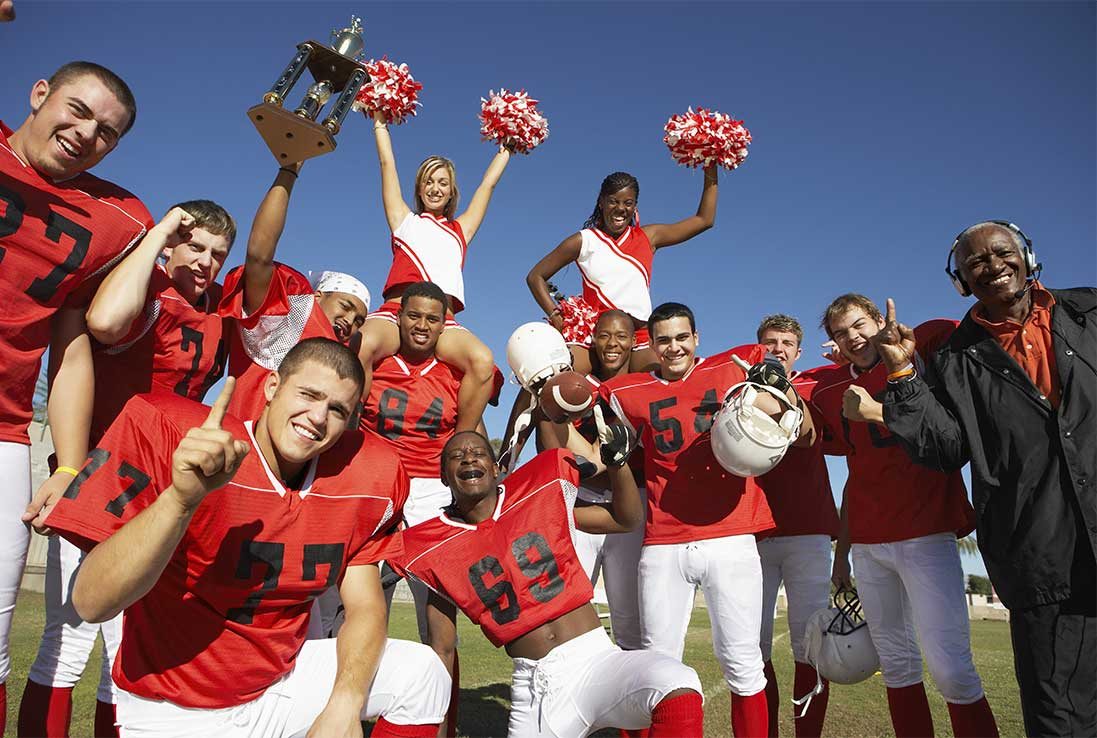
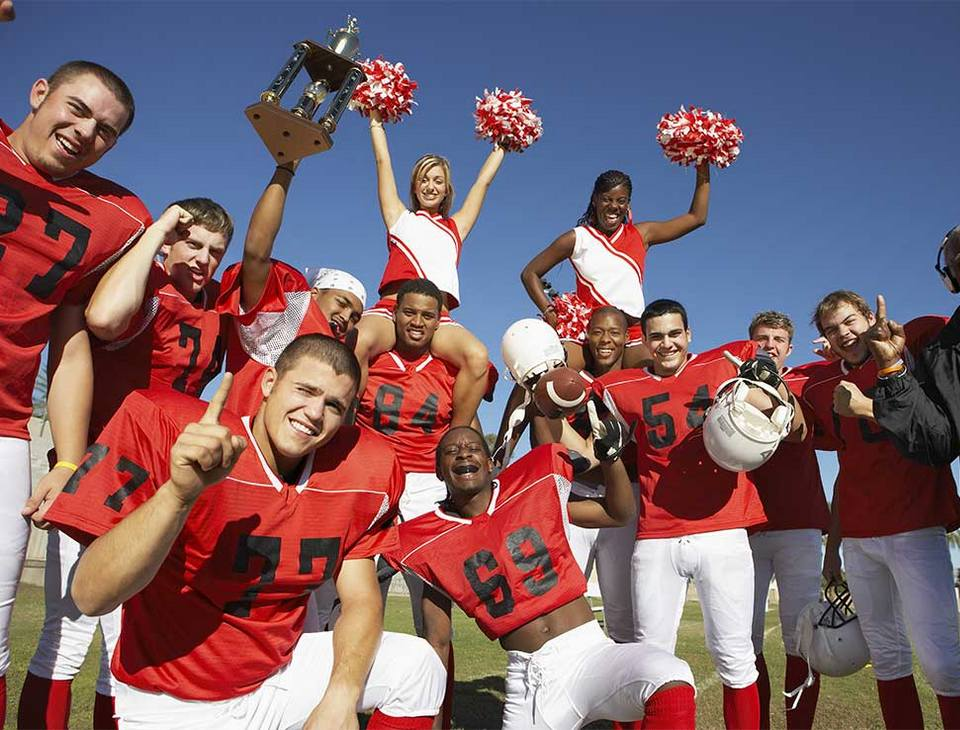
appeal section

diff --git a/css/styles.css b/css/styles.css
@@ -1,3 +1,4 @@
+
 @font-face {
     font-family: 'OpenSans-Regular';
     src: url('./fonts/OpenSans-Regular.woff2') format('woff2'),
@@ -260,12 +261,18 @@ body {
     justify-content: center;
   }
 
-   h2  {
-    font-family: 'OpenSans-Bold', sans-serif;
-    font-size: 80px;
-    text-transform: uppercase;
-    color: #e7e7e7;
-  }
+ @media (min-width: 961px) {
+	 .athlets > h2,
+	 .players > h2 {
+	   font-size: 80px;
+	 }
+}
+
+	h2  {
+ 		font-family: 'OpenSans-Bold', sans-serif;
+ 		text-transform: uppercase;
+ 		color: #e7e7e7;
+	}
 
    h3 {
     position: relative;
@@ -556,14 +563,53 @@ body {
 	margin-right: auto;
   }
 
-  .appeal__info {
-	/* position: relative; */
-  }
-
-  .appeal_image {
+   .appeal_image {
 	max-width: 100%;
+	max-height: 730px;
   }
 
+  .appeal__info {
+	  position: relative;
+	  box-sizing: border-box;
+  }
+
+  .appeal__info_text {
+	font-family: 'OpenSans-Regular', sans-serif;
+	}
+
+	.appeal__number {
+      position: absolute;
+    color: #ffffff;
+      font-family: 'OpenSans-Bold', sans-serif;
+     text-align: center;
+      background-color: #5e42b0;
+    }
+
+	.appeal__number p {
+      position: relative;
+	  margin: 0;
+    }
+
+	.appeal__number p:before {
+      display: block;
+      content: "";
+     position: absolute;
+      border-bottom: 5px solid #8f7bc8;
+        border-radius: 5px;
+    }
+
+	/* ////ШИРИНА ОТ 1920 ///// */
+@media (min-width: 1921px) {
+		.appeal__info_title {
+			font-size: 80px;
+	  	  line-height: 90px;
+		}
+
+		.appeal__info_text {
+			font-size: 24px;
+  	  		line-height: 28px;
+  		}
+}
 		/* ////ШИРИНА ОТ 961 ///// */
 @media (min-width: 961px){
   .appeal__info, .appeal__imgbox {
@@ -571,8 +617,6 @@ body {
     }
 
     .appeal__info {
-		position: relative;
-      	box-sizing: border-box;
 		padding-top: 13.5%;
     }
 
@@ -582,37 +626,25 @@ body {
 	}
 
 	.appeal__info:nth-child(3) {
-		padding-left: 10%;
+		padding-left: 9.5%;
 	}
 
     .appeal__info_title {
-      font-family: 'OpenSans-Bold', sans-serif;
-      font-size: 80px;
+      font-size: calc(50vw * 0.083);
 	  line-height: 90px;
-      color: #e7e7e7;
-      text-transform: uppercase;
-	  margin-top: 0;
-	  margin-bottom: 0;
+       margin-top: 0;
+	  margin-bottom: 11%;
    }
 
     .appeal__info_text {
-      font-family: 'OpenSans-Regular', sans-serif;
-      font-size: 24px;
-	  line-height: 28px;
-      /* padding-right: 40%; */
-    }
+      font-size: calc(50vw * 0.025);
+  }
 
     .appeal__number {
-      position: absolute;
       width: calc(5.4vw + 63px);
       height: calc(4.1vw + 76px);
-      color: #ffffff;
-      font-family: 'OpenSans-Bold', sans-serif;
-      font-size: 24px;
-	  line-height: calc(4.1vw + 76px);
-      text-align: center;
-      background-color: #5e42b0;
-    }
+      line-height: calc(4.1vw + 76px);
+ }
 
     .appeal__number.one, .appeal__number.three {
       top: 30%;
@@ -624,30 +656,112 @@ body {
       right: -5vw;
     }
 
-    .appeal__number p {
-      position: relative;
-	  margin: 0;
-    }
-
     .appeal__number p:before {
-      display: block;
-      content: "";
-      width: 24px;
-      position: absolute;
-      border-bottom: 5px solid #8f7bc8;
-      top: calc(50% + 16px);
+     top: calc(50% + 16px);
       left: calc(50% - 12px);
-      border-radius: 5px;
-    }
+     }
   }
 
-  	/* ////ШИРИНА ОТ 641 ДО 960///// */
-@media (min-width: 641px) and (max-width: 960px) {
+/* ////ШИРИНА ОТ 641 ///// */
+@media (min-width: 641px) {
+	.appeal__number {
+		 font-size: 24px;
+	}
 
+	.appeal__number p:before {
+		 width: 24px;
+	}
+}
+
+/* ////ШИРИНА ОТ 641 ДО 960///// */
+
+@media (min-width: 641px) and (max-width: 960px) {
+	.appeal__info_title {
+		font-size: 80px;
+		line-height: 60px;
+		margin-top: 0;
+		margin-bottom: 32px;
+	}
+
+	.appeal__info_text {
+		font-size: 24px;
+		line-height: 28px;
+	}
+
+	.appeal__info {
+		padding: 11% 11% 4%;
+		}
+
+		.appeal__number {
+	      width: 115px;
+	      height: 115px;
+	      line-height: 115px;
+		  top: -85px;
+		  left: calc(4% + 57px);
+	 }
+
+	 .appeal__number p:before {
+		 top: 72px;
+		 left: 45px;
+	 }
+}
+
+  	/* ////ШИРИНА ОТ 320 ДО 960///// */
+@media (min-width: 320px) and (max-width: 960px) {
+	.appeal__info, .appeal__imgbox {
+      width: 100%;
+      }
+
+	.appeal__info_text br {
+		display: none;
+	}
+
+		.appeal__info:nth-child(3) {
+			order: 1;
+		}
+		.appeal__imgbox:nth-child(5) {
+			order: 2;
+		}
+		.appeal__info:nth-child(6) {
+			order: 3;
+		}
 }
 	/* /////ШИРИНА ОТ 320 ДО 640//// */
 @media (min-width: 320px) and (max-width: 640px) {
+	.appeal__info_title {
+		font-size: 28px;
+		line-height: 34px;
+		margin-top: 0;
+		margin-bottom: 20px;
+	}
 
+	.appeal__info_text {
+		font-size: 16px;
+		line-height: 20px;
+	}
+
+	.appeal__info {
+		padding: 11% 9% 20%;
+		}
+
+		.appeal__info:nth-child(2) {
+				padding-right: 22%;
+		}
+
+	.appeal__number {
+		font-size: 14px;
+	  width: 70px;
+	  height: 70px;
+	  line-height: 70px;
+	  top: -57px;
+	  left: 5%;
+ }
+
+  .appeal__number p:before {
+	 width: 16px;
+	 top: 45px;
+	 left: 27px;
+ }
 }
 
   /* FOOTER */

diff --git a/index.html b/index.html
@@ -122,7 +122,7 @@
 			  <picture class="appeal_image">
 				  <source media="(min-width: 768px)"
 				  srcset="./images/active_desktop.jpg" />
-				  <source media="(min-width: 641px)"
+				  <source media="(min-width: 321px)"
 				  srcset="./images/active_768.jpg" />
 				  <source media="(min-width: 320px)"
 				  srcset="./images/active_320.jpg" />
@@ -150,7 +150,7 @@
 				<picture class="appeal_image">
   				  	<source media="(min-width: 768px)"
   				  	srcset="./images/contact_desktop.jpg" />
-  				  	<source media="(min-width: 641px)"
+  				  	<source media="(min-width: 321px)"
   				  	srcset="./images/contact_768.jpg" />
   				  	<source media="(min-width: 320px)"
   				  	srcset="./images/contact_320.jpg" />
@@ -161,7 +161,7 @@
 				<picture class="appeal_image">
   				  	<source media="(min-width: 768px)"
   				  	srcset="./images/work_desktop.jpg" />
-  				  	<source media="(min-width: 641px)"
+  				  	<source media="(min-width: 321px)"
   				  	srcset="./images/work_768.jpg" />
   				  	<source media="(min-width: 320px)"
   				  	srcset="./images/work_320.jpg" />
